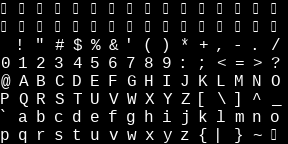
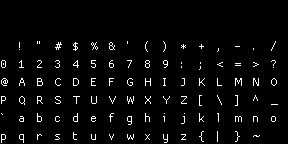
Fixed pixel perfect font rendering

diff --git a/src/graph.cpp b/src/graph.cpp
@@ -104,8 +104,8 @@ void GraphView::_init_glyph_buffers()
 
 	glTexParameteri(GL_TEXTURE_2D, GL_TEXTURE_WRAP_S, GL_REPEAT);
 	glTexParameteri(GL_TEXTURE_2D, GL_TEXTURE_WRAP_T, GL_REPEAT);
-	glTexParameteri(GL_TEXTURE_2D, GL_TEXTURE_MIN_FILTER, GL_LINEAR);
-	glTexParameteri(GL_TEXTURE_2D, GL_TEXTURE_MAG_FILTER, GL_LINEAR);
+	glTexParameteri(GL_TEXTURE_2D, GL_TEXTURE_MIN_FILTER, GL_NEAREST);
+	glTexParameteri(GL_TEXTURE_2D, GL_TEXTURE_MAG_FILTER, GL_NEAREST);
 	// glGenerateMipmap(GL_TEXTURE_2D);
 
 	glTexImage2D(GL_TEXTURE_2D,
@@ -220,7 +220,7 @@ void GraphView::_draw_labels() const
 
 		std::stringstream ss;
 		ss << std::fixed << std::setprecision(precision.y) << i;
-		_draw_label(ss.str(), point, 16, LabelAlignment::Right, LabelAlignmentVertical::Center);
+		_draw_label(ss.str(), point, 18, LabelAlignment::Right, LabelAlignmentVertical::Center);
 	}
 
 	// Draw the y axis ticks
@@ -236,7 +236,7 @@ void GraphView::_draw_labels() const
 
 		std::stringstream ss;
 		ss << std::fixed << std::setprecision(precision.x) << i;
-		_draw_label(ss.str(), point, 16, LabelAlignment::Center, LabelAlignmentVertical::Top);
+		_draw_label(ss.str(), point, 18, LabelAlignment::Center, LabelAlignmentVertical::Top);
 	}
 }
 
@@ -265,6 +265,9 @@ void GraphView::_draw_label(const std::string_view text, const glm::vec2 &pos, f
 
 	GlyphData buffer[128];
 	GlyphData *bufptr = &buffer[0];
+
+	offset.x = roundf(offset.x);
+	offset.y = roundf(offset.y);
 
 	for (auto c : text)
 	{

diff --git a/README.md b/README.md
@@ -94,4 +94,4 @@ ln -s build/compile_commands.json .
 ```
 
 ## Fonts
-Font is `/usr/share/fonts/truetype/liberation/LiberationMono-Regular.ttf`
+GLot uses the font ProggyClean by Tristan Grimmer. This is pre-rendered out to a bitmap font atlas in `font.png`.
